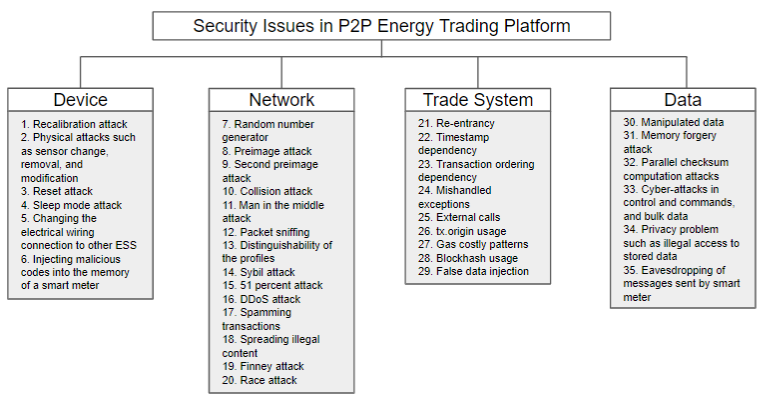
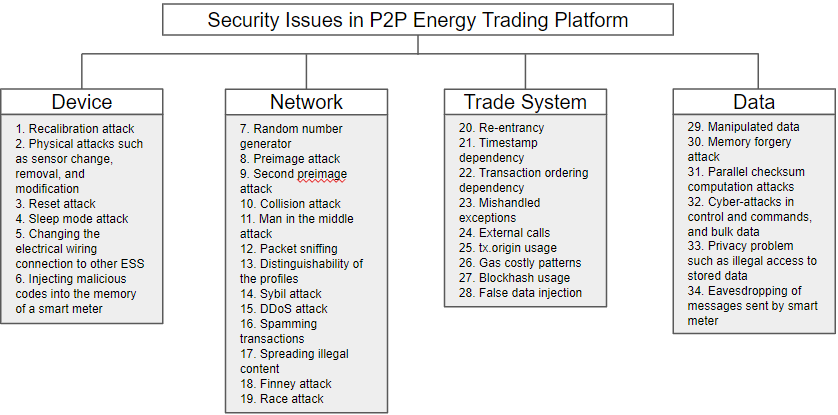
upload solutions to the security issues

Changed region(s): [[0.0, 0.0, 1.0, 1.0], [0.5118, 0.2105, 0.7225, 0.7519]]

diff --git a/README.md b/README.md
@@ -2,11 +2,11 @@
 
 ## Introduction
 
- Due to the emergence of people who can generate their own energy from Renewable Energy Sources (RESs), and the problems of central management overhead, peer-to-peer (P2P) energy trading has become a promising technology in smart grids. Blockchain technology has become popular in P2P transactions because of its disintermediation, transparency, tamper-proof transactions, and ensuring privacy and anonymity features. According to a report by Eurelectric in 2017, the Union of the electricity industry, more than 1000 projects are currently using Ethereum [1]. While research and development pertaining to the blockchain-based energy trading is prolific, we have observed that research into security issues is still limited. In this project, we identify 35 security issues in the blockchain-based P2P energy transactions, and show some limitations of current studies. We propose to solve these security issues using blockchain technology, Transport Layer Security (TLS) cryptographic protocols, sensor checking modules, and hardware support from ARM Trustzone. We demonstrate an implementation of a smart grid node based on a Klaytn smart contract using a Samsung ARTIK Internet-of-Things (IoT) platform, a solar panel, a rechargeable battery, and a smartphone.
+ Due to the emergence of people who can generate their own energy from Renewable Energy Sources (RESs), and the problems of central management overhead, peer-to-peer (P2P) energy trading has become a promising technology in smart grids. Blockchain technology has become popular in P2P transactions because of its disintermediation, transparency, tamper-proof transactions, and ensuring privacy and anonymity features. According to a report by Eurelectric in 2017, the Union of the electricity industry, more than 1000 projects are currently using Ethereum [1]. While research and development pertaining to the blockchain-based energy trading is prolific, we have observed that research into security issues is still limited. In this project, we identify 34 security issues in the blockchain-based P2P energy transactions, and show some limitations of current studies. We propose to solve these security issues using blockchain technology, Transport Layer Security (TLS) cryptographic protocols, sensor checking modules, and hardware support from ARM Trustzone. We demonstrate an implementation of a smart grid node based on a Klaytn smart contract using a Samsung ARTIK Internet-of-Things (IoT) platform, a solar panel, a rechargeable battery, and a smartphone.
 
  [1] Eurelectric. Eurelectric launches expert discussion platform on blockchain, 〈http://www.eurelectric.org/news/2017/eurelectric-launches-expert-discussion-platform-on-blockchain/〉, [accessed 25 May 2019].
 
-## Security Issues
+## Security Issues in P2P energy transactions
 
  We investigate security issues in P2P Energy Trading Platforms and divide them into four categories: Device Security, Network, Trade System, and Data Security. The possible security issues in P2P energy trading platforms are collected from existing researches [1, 2, 3].
 
@@ -28,7 +28,6 @@
 |<center>Packet sniffing</center>|It is a hacking method that uses computer programs or computer hardware that can intercept or record traffic through a digital network or part of a network.|Similar to man in the middle attack, the purpose is to see important information such as ID and password.|
 |<center>Distinguishability of the profiles</center>|Anyone can view other people's transactions on the Blockchain network. This attack analyzes the transaction patterns of etherium network accounts, matches them with people with similar patterns,|By monitoring specific users, privacy is violated. Homes which has rarely trade history can be considered deserted, so they would be easily targeted.|
 |<center>Sybil attack</center>|This attack occurs when an actor acts as several separate entities. Since many distributed systems have no form of identity management beyond the account, any actor can create unlimited accounts.|Because many distributed systems have no form of identity management beyond accounts, a user can make a lot of accounts in P2P network to gain control of the network.|
-|<center>51 percent attack</center>|If attacker could have majority of computational power, he could reverse and alter transactions. |This attack manipulates the transaction and causes double-spending.|
 |<center>DDoS attack</center>|A Denial of Service (DoS) attack is a malicious attempt to adversely affect the availability of target systems, such as websites or applications, and legitimate end users. Typically, an attacker generates a large amount of packets or requests.|The attacks paralyze and disable the network. Hackers sometimes demand money from service providers in return for stopping the attacks.|
 |<center>Spamming transactions</center>|This attack increases the size of transactions by artificially padding valid transactions inside each other.|The attacks paralyze and disable the network.|
 |<center>Spreading illegal content</center>|An attacker can send illegal content via message or insert illegal content into a transaction to broadcast it on the network.|The purpose of this is to record what is not legally permissible on the blockchain network. This includes illegally writing books that are banned or copyrighted.|
@@ -66,3 +65,42 @@ This is the overall design of our system. It consists of cloud server which has 
 ### What's the difference from other P2P energy trading projects?
 
 There are a lot of famous P2P energy trading platforms such as Ponton, LO3 Energy, Electrify, and Power Ledger. However, we can hardly find P2P energy security research or projects. P2P energy trading platforms utilize the security methods used in the past, which are dangerous. A typical example is data security. In the past, data was encrypted in the smart meter, and decrypted when used. However, smart meter now has possibility of getting memory attack, which can hack memory when the data is used. Smart contracts did not contain very important data in the past, but now it can be a serious problem as it has a number of important functions, including billing. Our system defends memory hacking by protecting sessions from independent hardware beyond data encryption. In addition, other platform mainly use Ethereum, which takes a lot of time to check transactions several times to prevent the above mentioned race attack, finney attack, and false data injection. We use Klaytn which has a quick consensus algorithm to help users make power transactions quickly. With the extensive research of security issues in P2P energy trading system, we made an implementation which can resolve each security issues. Our platform gives a quick and secure P2P energy trading system for the users.
+
+## Solutions to the security issues
+
+|<center>Name</center>|<center>Solution</center>|
+|-|--|
+|Recalibration attack|Our system makes sure that the sensors are working properly by selling and purchasing certain amps themselves before making a power deal. If a problem occurs during this process, report to the user without proceeding the transaction.|
+|Physical attacks such as sensor change, removal, and modification|Our system makes sure that the sensors are working properly by selling and purchasing certain amps themselves before making a power deal. If a problem occurs during this process, report to the user without proceeding the transaction.|
+|Reset attack|Our system is protected by a separate session by a secure execution environment in the process of recalling values written in the hardware-isolated secure world when we call up the value of stored energy.|
+|Sleep mode attack|Our system initializes the status of the sensors each time before trading in power. Resets the sensor to return to normal just before trading, even if it is in sleep mode.|
+|Changing the electrical wiring connection to other ESS|Our ESS is being tracked by a power measurement sensor in real time. If you physically change the wiring connected to the ESS, you will be sent an error report to the user because tracking is not possible or a value change occurs.|
+|Injecting malicious codes into the memory of a smart meter|A Secure Boot scheme adds cryptographic checks to each stage of the boot process. TEE and TEE related codes are validated every time by ARTIK's secure boot sequence. On top of this process, all data storage and user authentication procedures take place in a hardware-independent secure world. Even if the hackers have the Root privilege of Normal World, it is not possible to view the information in Secure World or to see what is happening in the Trust Execution Environment.|
+|Random number generator|A well-designed seed generator can resolve this attack. We create a private key through the following process: 1. Create random values (entropy) 2. Generate mnemonic code from entropy 3. Create master seed with mnemonic code and passphrase 4. Generate private keys from master seed|
+|Preimage attack|Although SHA-1 is broken now with this attack, Klaytn is based on Keccak-256 which is considered secure. |
+|Second preimage attack|Although SHA-1 is broken now with this attack, Klaytn is based on Keccak-256 which is considered secure.|
+|Collision attack|Although SHA-1 is broken now with this attack, Klaytn is based on Keccak-256 which is considered secure.|
+|Man in the middle attack|We use SSL/TLS for communication. The SSL and TLS protocols allow two parties to identify, authenticate, and communicate with each other, ensuring confidentiality and data integrity. Symmetric key encryption can effectively prevent these attacks by securely encrypting and authenticating messages in this process.|
+|Packet sniffing|We use SSL/TLS for communication. The SSL and TLS protocols allow two parties to identify, authenticate, and communicate with each other, ensuring confidentiality and data integrity. Symmetric key encryption can effectively prevent these attacks by securely encrypting and authenticating messages in this process.|
+|Distinguishability of the profiles|The only information in our system is the trading time and the amount of electricity, and nothing else. We don't store information such as user's address or power usage patterns, so the hackers can't pose any threat just by looking at user's purchase history.|
+|Sybil attack|It is prevented by Byzantine fault-tolerance (BFT) consensus algorithm. If user's full node suddenly finds itself connected to fake nodes spawned by an attacker which claim that difficulty of the block they are sending you is different, user's node knows the fake blocks and discard those blocks.|
+|DDoS attack|The Klaytn network introduced the concept of gas and paid for it to stop DDOS. Every command carried out on the network has to be paid by gas.|
+|Spamming transactions|The gas introduced in previous section stops this attack. Gas does not have a fixed price per transaction, but it increases with the size of the transaction. If the attackers deliberately inflate the size of the transaction information to disrupt the network, they'll have to pay as much.|
+|Spreading illegal content|Our system only receives numerical information for transactions. You can only enter integers, but you cannot enter a number that is too large. Therefore, it is not suitable to be used to distribute illegal information.|
+|Finney attack|Unlike Ethereum, Klaytn has proposer and committee selection. This process goes randomly and deterministically, so the block propagation is deterministic in one way.|
+|Race attack|Unlike Ethereum, Klaytn has proposer and committee selection. This process goes randomly and deterministically, so the block propagation is deterministic in one way.|
+|Re-entrancy|This attack is aimed at smart contract author coding mistakes. You can easily avoid these attacks if you code them according to the correct guidelines. With Remix and Mythril, you can create smart contracts, validating whether there are vulnerabilities or not in all of these attacks.|
+|Timestamp dependency|This attack is aimed at smart contract author coding mistakes. You can easily avoid these attacks if you code them according to the correct guidelines. With Remix and Mythril, you can create smart contracts, validating whether there are vulnerabilities or not in all of these attacks.|
+|Transaction ordering dependency|This attack is aimed at smart contract author coding mistakes. You can easily avoid these attacks if you code them according to the correct guidelines. With Remix and Mythril, you can create smart contracts, validating whether there are vulnerabilities or not in all of these attacks.|
+|Mishandled exceptions|This attack is aimed at smart contract author coding mistakes. You can easily avoid these attacks if you code them according to the correct guidelines. With Remix and Mythril, you can create smart contracts, validating whether there are vulnerabilities or not in all of these attacks.|
+|External calls|This attack is aimed at smart contract author coding mistakes. You can easily avoid these attacks if you code them according to the correct guidelines. With Remix and Mythril, you can create smart contracts, validating whether there are vulnerabilities or not in all of these attacks.|
+|tx.origin usage|This attack is aimed at smart contract author coding mistakes. You can easily avoid these attacks if you code them according to the correct guidelines. With Remix and Mythril, you can create smart contracts, validating whether there are vulnerabilities or not in all of these attacks.|
+|Gas costly patterns|This attack is aimed at smart contract author coding mistakes. You can easily avoid these attacks if you code them according to the correct guidelines. With Remix and Mythril, you can create smart contracts, validating whether there are vulnerabilities or not in all of these attacks.|
+|Blockhash usage|This attack is aimed at smart contract author coding mistakes. You can easily avoid these attacks if you code them according to the correct guidelines. With Remix and Mythril, you can create smart contracts, validating whether there are vulnerabilities or not in all of these attacks.|
+|False data injection|The buyer does not send money to the seller directly, but pays the smart contract. Buyer checks whether power is still being sent and report to the smart contract every seconds during the power transaction. When the transaction is complete, the smart contract pays the seller the money received from the buyer. If the amount of power reported from the two smart meters is different, the smart contract will pay the seller as much as the reported charging power and refund the rest to the buyer. Normal transactions raise each other's credit rating by one, and if the transaction is cut in the middle, we reduce each other's credit by three. People with low credit are hard to deal with, so they will try to trade honestly.|
+|Manipulated data|All the important data in our system is stored in a secure zone that is hardware-independent. Access here from the smart meter requires the ID and password of that session.|
+|Memory forgery attack|We do all the data storing and checking in physically separate secure world memory. Therefore, "Hacker's memory readable and writable" cannot be established, which is the precursor to these attacks.|
+|Parallel checksum computation attacks|We do all the data storing and checking in physically separate secure world memory. Therefore, "Hacker's memory readable and writable" cannot be established, which is the precursor to these attacks.|
+|Cyber-attacks in control and commands, and bulk data|Our system uses asymmetric key cryptography (ECDSA and secp256k1) to encrypt, and this command encryption occurs in secure world.|
+|Privacy problem such as illegal access to stored data|We store data in a hardware-independent secure world. The process of storing or recalling this data is also safely handled by opening a secure session in the secure world. The data they can see is already encrypted by asymmetric keys in the secure world and cannot be hacked.|
+|Eavesdropping of messages sent by smart meter|When our system performs important authentication or processing of data, it opens, processes, and returns secure sessions in a hardware-independent secure world. The returned data is encrypted by an asymmetric key and cannot be hacked.|
